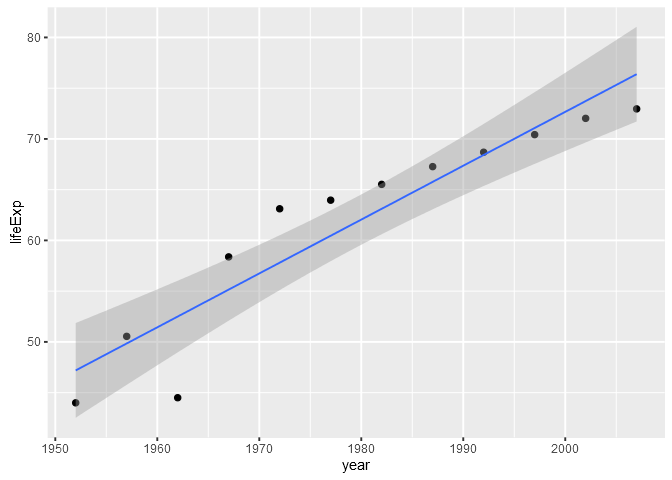
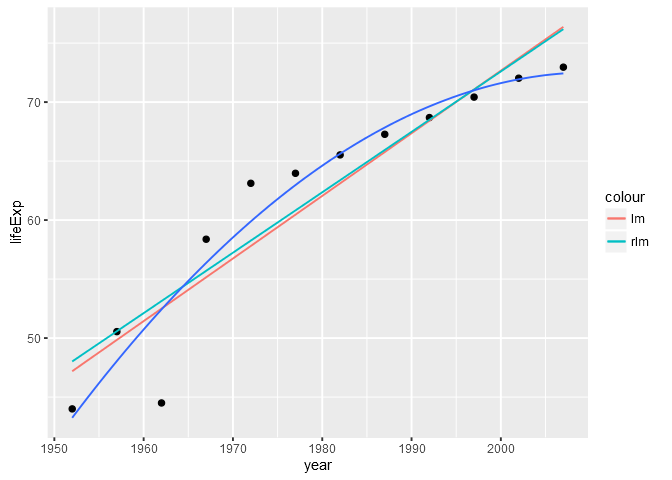
meaningful comparison done

diff --git a/hw06_data-wrangling-conclusion/hw_06-data-wrangling-conclusion.md b/hw06_data-wrangling-conclusion/hw_06-data-wrangling-conclusion.md
@@ -1,7 +1,7 @@
 Data Wrangling Conclusion
 ================
 Gokul Raj Suresh Kumar
-2016-11-13
+2016-11-14
 
 Data Wrangling Conclusion
 =========================
@@ -46,6 +46,15 @@ selected_country <- "China"
 p <- selected_country_info %>% 
   ggplot( aes( x = year , y = lifeExp ) )
 
+p + geom_point( ) + 
+  geom_smooth( method = "lm" , aes( colour = "lm" ) , lwd = 0.5 , se = FALSE ) + 
+  geom_smooth( method = "rlm" , aes( colour = "rlm" ) , lwd = 0.5 , se = FALSE ) +
+  geom_smooth( method = "lm" , formula = y ~ x + I( x^2 ) , lwd = 0.5 , se = FALSE )
+```
+
+![](hw_06-data-wrangling-conclusion_files/figure-markdown_github/unnamed-chunk-2-1.png)
+
+``` r
 # linear
 linear_fit <- lm( lifeExp ~ I( year - 1952 ) , data = selected_country_info )
 
@@ -66,12 +75,6 @@ le_linear_fit( selected_country_info )
 
     ##  intercept      slope 
     ## 47.1904815  0.5307149
-
-``` r
-p + geom_point( ) + geom_smooth( method = "lm" , lwd = 0.5 )
-```
-
-![](hw_06-data-wrangling-conclusion_files/figure-markdown_github/unnamed-chunk-2-1.png)
 
 ``` r
 # robust 
@@ -96,12 +99,6 @@ le_robust_fit( selected_country_info )
     ## 48.0172254  0.5120964
 
 ``` r
-p + geom_point( ) + geom_smooth( method = "rlm" , lwd = 0.5 )
-```
-
-![](hw_06-data-wrangling-conclusion_files/figure-markdown_github/unnamed-chunk-2-2.png)
-
-``` r
 # quadratic
 quadratic_fit <- lm( lifeExp ~ I( year - 1952 ) + I( ( year - 1952 )^2 ) , data = selected_country_info )
 
@@ -122,12 +119,6 @@ le_quadratic_fit( selected_country_info )
 
     ##   intercept     slope 1     slope 2 
     ## 43.24529473  1.00413727 -0.00860768
-
-``` r
-p + geom_point( ) + geom_smooth( method = "lm" , formula = y ~ x + I( x^2 ) , lwd = 0.5 )
-```
-
-![](hw_06-data-wrangling-conclusion_files/figure-markdown_github/unnamed-chunk-2-3.png)
 
 Working with a nested data frame
 --------------------------------
@@ -407,22 +398,6 @@ le_quad_fit_broom %>%
 ``` r
 #linear and robust comparison
 
-ggplot( le_lin_ests , aes( x = intercept , y = slope ) ) +
-  geom_point( ) +
-  geom_smooth( se = FALSE )
-```
-
-![](hw_06-data-wrangling-conclusion_files/figure-markdown_github/unnamed-chunk-3-1.png)
-
-``` r
-ggplot( le_rob_ests , aes( x = intercept , y = slope ) ) +
-  geom_point( ) +
-  geom_smooth( se = FALSE )
-```
-
-![](hw_06-data-wrangling-conclusion_files/figure-markdown_github/unnamed-chunk-3-2.png)
-
-``` r
 le_lin_rob_est <- left_join( le_lin_ests , le_rob_ests , by = c( "continent", "country" ) )
 
 le_lin_rob_est <- le_lin_rob_est %>% 
@@ -442,10 +417,60 @@ knitr::kable( le_lin_rob_est %>% head( ) )
 | Burundi      |    0.0000000|        0.0000000|
 
 ``` r
-ggplot( le_lin_rob_est , aes( x = intercept_diff , y = slope_diff ) ) + geom_point( ) 
+ggplot( le_lin_rob_est , aes( x = intercept_diff , y = slope_diff ) ) + geom_point( )
 ```
 
-![](hw_06-data-wrangling-conclusion_files/figure-markdown_github/unnamed-chunk-3-3.png)
+![](hw_06-data-wrangling-conclusion_files/figure-markdown_github/unnamed-chunk-3-1.png)
+
+``` r
+le_lin_rob_est %>% filter( ( intercept_diff < -1 ) | ( slope_diff < -0.075 ) )
+```
+
+    ## # A tibble: 7 × 3
+    ##        country  slope_diff intercept_diff
+    ##         <fctr>       <dbl>          <dbl>
+    ## 1      Lesotho -0.10111163      1.6412003
+    ## 2    Mauritius  0.03618484     -1.4281125
+    ## 3       Rwanda -0.07820998      0.4262397
+    ## 4 South Africa -0.11163269      1.8028066
+    ## 5    Swaziland -0.11509240      1.8377640
+    ## 6     Cambodia  0.02418151     -2.5259164
+    ## 7     Bulgaria  0.04791736     -1.8368321
+
+``` r
+interesting_countries <- 
+  c( "Mauritius" , "Cambodia" , "Bulgaria" , "Lesotho" , "Rwanda" , "South Africa" , "Swaziland" )  
+
+( interesting_countries_info <- gapminder %>% 
+    filter( country %in% interesting_countries ) )
+```
+
+    ## # A tibble: 84 × 6
+    ##     country continent  year lifeExp     pop gdpPercap
+    ##      <fctr>    <fctr> <int>   <dbl>   <int>     <dbl>
+    ## 1  Bulgaria    Europe  1952   59.60 7274900  2444.287
+    ## 2  Bulgaria    Europe  1957   66.61 7651254  3008.671
+    ## 3  Bulgaria    Europe  1962   69.51 8012946  4254.338
+    ## 4  Bulgaria    Europe  1967   70.42 8310226  5577.003
+    ## 5  Bulgaria    Europe  1972   70.90 8576200  6597.494
+    ## 6  Bulgaria    Europe  1977   70.81 8797022  7612.240
+    ## 7  Bulgaria    Europe  1982   71.08 8892098  8224.192
+    ## 8  Bulgaria    Europe  1987   71.34 8971958  8239.855
+    ## 9  Bulgaria    Europe  1992   71.19 8658506  6302.623
+    ## 10 Bulgaria    Europe  1997   70.32 8066057  5970.389
+    ## # ... with 74 more rows
+
+``` r
+p <- interesting_countries_info %>% 
+  ggplot( aes( x = year , y = lifeExp ) )
+
+p + geom_point( ) + 
+  facet_wrap( ~ country ) + 
+  geom_smooth( method = "lm" , lwd = 0.5 , aes( colour = "lm" ) , se = FALSE ) + 
+  geom_smooth( method = "rlm" , lwd = 0.5 , aes( colour = "rlm" ) , se = FALSE )
+```
+
+![](hw_06-data-wrangling-conclusion_files/figure-markdown_github/unnamed-chunk-3-2.png)
 
 <http://www.alastairsanderson.com/R/tutorials/robust-regression-in-R>
 
